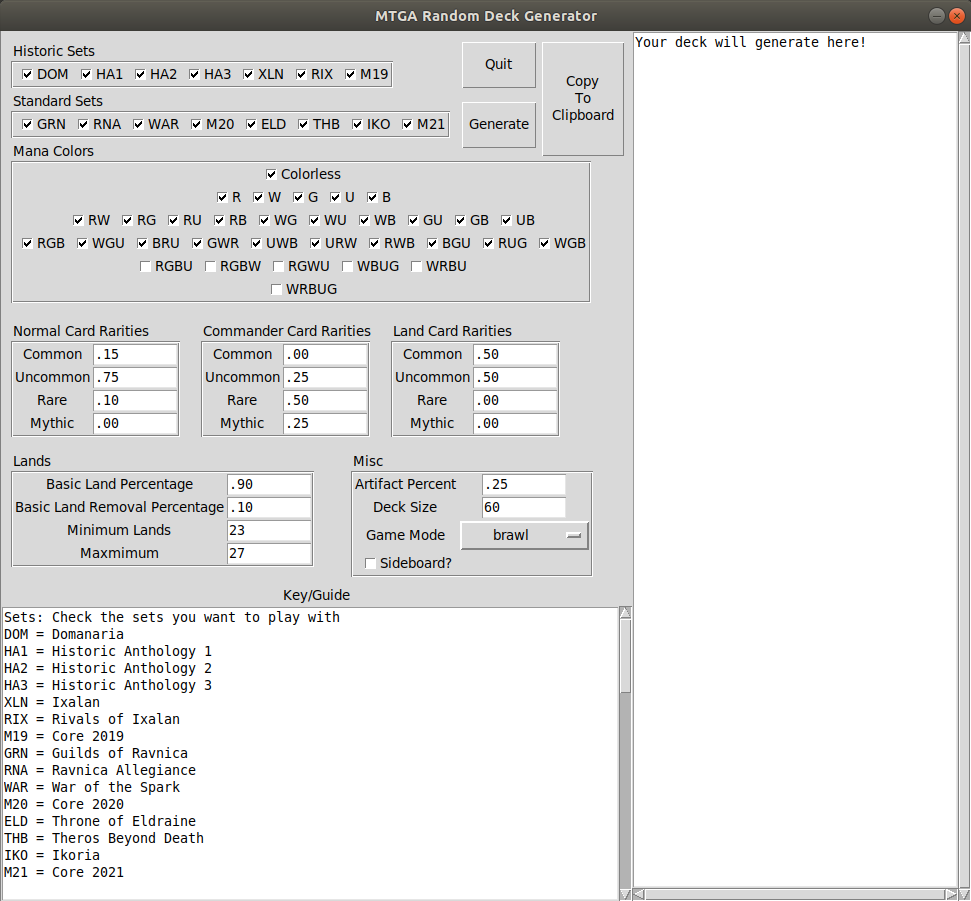
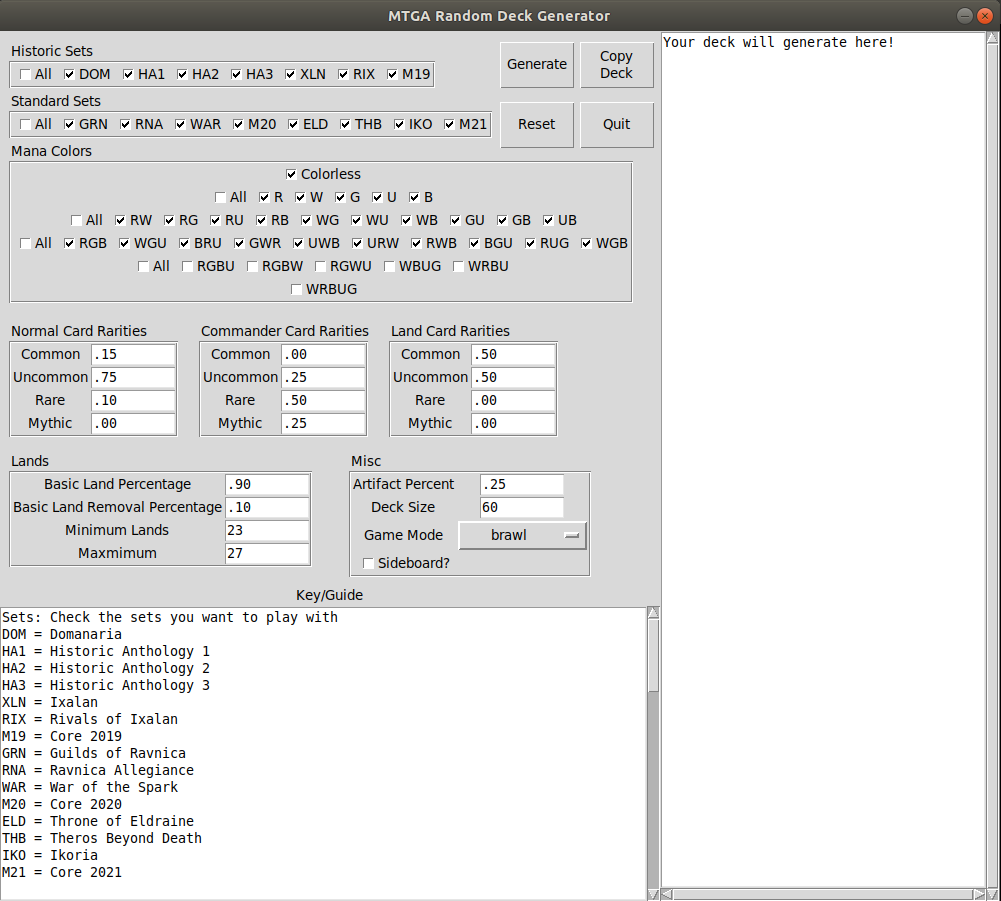
Updated GUI

diff --git a/randomizer.py b/randomizer.py
@@ -16,32 +16,6 @@ from tkinter import *
 
 #---------------------------------------------------------
 #---------------------------------------------------------
-class Checkbar(Frame):
-    """A class to group a bunch of checkboxes together
-
-    Attributes:
-        vars: pointers to all the checkboxes
-    """
-    def __init__(self, parent=None, picks=[], toSelect=0):
-        """Inits the checkbar with len(picks) boxes"""
-        Frame.__init__(self, parent)
-        self.vars = []
-        for pick in picks:
-            var = IntVar()
-            chk = Checkbutton(self, text=pick, variable=var)
-            if toSelect == 0:
-                chk.select()
-            chk.pack(side=LEFT)
-            self.vars.append(var)
-
-    def state(self):
-        """Returns a list of 0/1s depending if a box is checked"""
-        return map((lambda var: var.get()), self.vars)
-#---------------------------------------------------------
-#---------------------------------------------------------
-
-#---------------------------------------------------------
-#---------------------------------------------------------
 def verifyInformation(sets, possibleColorCombos, normal_rarity_percents, commander_rarity_percents, land_rarity_percents, artifact_percent, basic_land_percent, basic_land_percent_removal, deck_mode, numberOfLands, deckSize):
     """Makes sure all passed in information is valid (correct typing, values, etc)
 
@@ -276,10 +250,13 @@ def load_json_sets(setsToInclude, deck_mode):
                 cardName = x["name"]
 
             #If that card is legal in the format we want and unique
-            try:
-                legalResult = x["legalities"][deck_mode]
-            except:
-                legalResult = "Not Legal"
+            if deck_mode == "all":
+                legalResult = "Legal"
+            else:
+                try:
+                    legalResult = x["legalities"][deck_mode]
+                except:
+                    legalResult = "Not Legal"
 
             #See if the card has a manacost
             try:
@@ -288,10 +265,12 @@ def load_json_sets(setsToInclude, deck_mode):
                 try:
                     if x["types"][0] == "Land":
                         legalResult = "Legal"
+                    else:
+                        legalResult = "Not Legal"
                 except:
                     legalResult = "Not Legal"
 
-            if ((legalResult == "Legal" or deck_mode == "all") and cardName not in all_card_names):
+            if (legalResult == "Legal" and cardName not in all_card_names):
                     
                 #Track all card names
                 all_card_names.append(cardName)
@@ -649,11 +628,46 @@ if __name__ == "__main__":
 
     #All of the TKinter GUI stuff is here
 
+    class Checkbar(Frame):
+        """A class to group a bunch of checkboxes together
+
+        Attributes:
+            vars: pointers to all the checkboxes
+        """
+        def __init__(self, parent=None, picks=[], toSelect=0, allBar=True):
+            """Inits the checkbar with len(picks) boxes"""
+            Frame.__init__(self, parent)
+            self.vars = []
+            if allBar == True:
+                var = IntVar()
+                chk = Checkbutton(self, text='All', command=lambda: check_bar_toggle(self), variable=var)
+                chk.pack(side=LEFT)
+                self.vars.append(var)
+            for pick in picks:
+                var = IntVar()
+                chk = Checkbutton(self, text=pick, variable=var)
+                if toSelect == 0:
+                    chk.select()
+                chk.pack(side=LEFT)
+                self.vars.append(var)
+
+        def state(self):
+            """Returns a list of 0/1s depending if a box is checked"""
+            return map((lambda var: var.get()), self.vars)
+
+        def all_on(self):
+            for x in self.vars:
+                x.set(True)
+
+        def all_off(self):
+            for x in self.vars:
+                x.set(False)
+
     def generate_helper():
         """
         A helper method to call deck generation
         """
-        setsToInclude = list(setCheckBar.state()) + list(setCheckBar2.state())
+        setsToInclude = list(setCheckBar.state())[1:] + list(setCheckBar2.state())[1:]
         normal_rarity_percents = [normalC.get("1.0",END), normalUC.get("1.0",END), normalR.get("1.0",END), normalM.get("1.0",END)]
         commander_rarity_percents = [commanderC.get("1.0",END), commanderUC.get("1.0",END), commanderR.get("1.0",END), commanderM.get("1.0",END)]
         land_rarity_percents = [landC.get("1.0",END), landUC.get("1.0",END), landR.get("1.0",END), landM.get("1.0",END)]
@@ -662,7 +676,7 @@ if __name__ == "__main__":
         basic_land_percent_removal = landRPercent.get("1.0",END)
         deck_mode = gmVariable.get()
         numberOfLands = [minLand.get("1.0",END), maxLand.get("1.0",END)]
-        possibleColorCombos = list(noColor.state()) + list(monoColor.state()) + list(dualColor.state()) + list(triColor.state()) + list(quadColor.state()) + list(allColor.state())
+        possibleColorCombos = list(noColor.state()) + list(monoColor.state())[1:] + list(dualColor.state())[1:] + list(triColor.state())[1:] + list(quadColor.state())[1:] + list(allColor.state())
         sideBoard = sideBoardPointer.get()
         deckSize = deck_size.get("1.0",END)
         T.configure(state='normal')
@@ -679,15 +693,76 @@ if __name__ == "__main__":
 
     def focus_next_widget(event):
         """
-        Goes to the next box
+        Goes to the next text box on <Tab> or <Return>
         """
         event.widget.tk_focusNext().focus()
         return("break")
 
+    def check_bar_toggle(checkbar):
+        if sum(list(checkbar.state())[1:]) != len(list(checkbar.state()))-1:
+            checkbar.all_on()
+        else:
+            checkbar.all_off()
+
+    def reset_to_default():
+        """
+        Resets the GUI to the initial parameters
+        """
+        setCheckBar.all_on()
+        setCheckBar2.all_on()
+        noColor.all_on()
+        monoColor.all_on()
+        dualColor.all_on()
+        triColor.all_on()
+        quadColor.all_off()
+        allColor.all_off()
+        normalC.delete('1.0', END)
+        normalC.insert(END, ".15")
+        normalUC.delete('1.0', END)
+        normalUC.insert(END, ".75")
+        normalR.delete('1.0', END)
+        normalR.insert(END, ".10")
+        normalM.delete('1.0', END)
+        normalM.insert(END, ".00")
+        commanderC.delete('1.0', END)
+        commanderC.insert(END, ".00")
+        commanderUC.delete('1.0', END)
+        commanderUC.insert(END, ".25")
+        commanderR.delete('1.0', END)
+        commanderR.insert(END, ".50")
+        commanderM.delete('1.0', END)
+        commanderM.insert(END, ".25")
+        landC.delete('1.0', END)
+        landC.insert(END, ".50")
+        landUC.delete('1.0', END)
+        landUC.insert(END, ".50")
+        landR.delete('1.0', END)
+        landR.insert(END, ".00")
+        landM.delete('1.0', END)
+        landM.insert(END, ".00")
+        landPercent.delete('1.0', END)
+        landPercent.insert(END, ".90")
+        landRPercent.delete('1.0', END)
+        landRPercent.insert(END, ".10")
+        minLand.delete('1.0', END)
+        minLand.insert(END, "23")
+        maxLand.delete('1.0', END)
+        maxLand.insert(END, "27")
+        artifactPercent.delete('1.0', END)
+        artifactPercent.insert(END, ".25")
+        deck_size.delete('1.0', END)
+        deck_size.insert(END, "60")
+        T.configure(state='normal')
+        T.delete('1.0', END)
+        T.insert(END, "Your deck will generate here!")
+        T.configure(state='disabled')
+        gmVariable.set("brawl")
+        sideBoardPointer.set(False)
+
     #Root
     root = Tk()
     root.resizable(False, False)
-    root.geometry("970x870")
+    root.geometry("1000x870")
     root.title("MTGA Random Deck Generator")
     root.iconphoto(False, PhotoImage(file='icon.png'))
 
@@ -709,7 +784,7 @@ if __name__ == "__main__":
     manaFrame = Frame(root)
     manaFrame.pack()
     manaFrame.place(x=10, y=130)
-    noColor = Checkbar(manaFrame, ["Colorless"])
+    noColor = Checkbar(manaFrame, ["Colorless"], allBar=False)
     noColor.pack()
     monoColor = Checkbar(manaFrame, ["R", "W", "G", "U", "B"])
     monoColor.pack()
@@ -719,7 +794,7 @@ if __name__ == "__main__":
     triColor.pack()
     quadColor = Checkbar(manaFrame, ["RGBU", "RGBW", "RGWU", "WBUG", "WRBU"], toSelect=1)
     quadColor.pack()
-    allColor = Checkbar(manaFrame, ["WRBUG"], toSelect=1)
+    allColor = Checkbar(manaFrame, ["WRBUG"], toSelect=1, allBar=False)
     allColor.pack()
     manaFrame.config(relief=GROOVE, bd=2)
   
@@ -909,9 +984,10 @@ if __name__ == "__main__":
     T2.config(yscrollcommand=S3.set)
     T2.insert(END, "Sets: Check the sets you want to play with\nDOM = Domanaria\nHA1 = Historic Anthology 1\nHA2 = Historic Anthology 2\nHA3 = Historic Anthology 3\nXLN = Ixalan\nRIX = Rivals of Ixalan\nM19 = Core 2019\nGRN = Guilds of Ravnica\nRNA = Ravnica Allegiance\nWAR = War of the Spark\nM20 = Core 2020\nELD = Throne of Eldraine\nTHB = Theros Beyond Death\nIKO = Ikoria\nM21 = Core 2021\n\nMana Colors: Check the mana colors you want your deck possibly being. If you have \"R\", \"W\", and \"RW\", theres a 33% chance your deck is only Red, a 33% chance your deck is only White, and a 33% chance your deck is Red and White\nR = Red\nW = White\nG = Green\nU = Blue\nB = Black\n\nRarities: The odds you want to get a card of a certain rarity. For example, normal common = .25 means there's a 25% chance, for each normal card in your deck, it will be a common\n\nBasic Land Percentage: The odds that for each land, it will be a basic land. This is applied before checking the rarity of each land\n\nBasic Land Removal Percentage: For each color in your deck past the first, this number will get subtracted from Basic Land Percentage so that the more colors in your deck, the more likely you will get non basic lands, which wil help with mana fixing\n\nArtifact Percentage: The odds that you will randomly select an artifact. This is here because artifacts can be run in any deck, so this will limit the amount that can be randomly generated in a deck\n\nHistoric and Traditional Historic - 60+ cards, historic legal, 4 similar card max\n\nStandard and Traditional Standard - 60+ cards, standard legal, 4 similar card max\n\nBrawl - 59 unique cards, 1 unique commander, standard legal\n\nFriendly Brawl - 59 unique cards, 1 unique commander, historic legal\n\nSingleton - 60 unique cards, standard legal\n\nArtisan - 60-250 cards, historic legal, commons or uncommons only, 4 similar card max\n\nPauper - 60+ cards, standard legal, commons only, 4 similar card max\n\nLimited - 40+ cards\n\nDirect Game - 60+ cards, historic legal, 4 similar card max")
     T2.configure(state='disabled')
-    Button(root, text='Quit', command=root.quit, height = 2, width = 6).place(x=460, y=10)
-    Button(root, text='Generate', command=generate_helper, height = 2, width = 6).place(x=460, y=70)
-    Button(root, text='Copy\nTo\nClipboard', command=copy_to_clipboard, height = 6, width = 7).place(x=540, y=10)
+    Button(root, text='Quit', command=root.quit, height = 2, width = 6).place(x=580, y=70)
+    Button(root, text='Generate', command=generate_helper, height = 2, width = 6).place(x=500, y=10)
+    Button(root, text='Copy\nDeck', command=copy_to_clipboard, height = 2, width = 6).place(x=580, y=10)
+    Button(root, text='Reset', command=reset_to_default, height = 2, width = 6).place(x=500, y=70)
     root.mainloop()
         
 #----------------------------------------------------------

diff --git a/README.md b/README.md
@@ -68,5 +68,5 @@ All credit for the JSON files that list all the cards goes to [MTGJSON](https://
 To generate HTML documentation for this program issue the command: pydoc3 -w randomizer
 
 ##TODO
-* Clear button for each block
-* Reset button for entire thing (brings everything back to default)
+* Double check code (clean up, check for redundancies, etc)
+* Testing, testing, testing (catching inputs, making sure all cards are present, etc)
